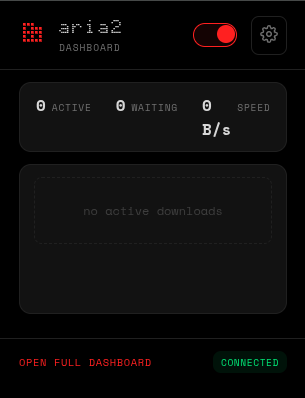
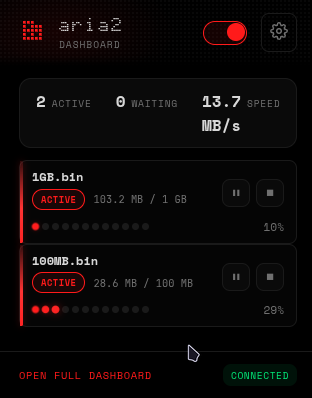
screenshot update

diff --git a/README.md b/README.md
@@ -6,7 +6,9 @@ A browser extension for managing aria2 downloads with a sleek dot-matrix aesthet
 
 ![Aria2 Dashboard Options](sc2.png)
 
-![Aria2 Dashboard Full](sc3.png)
+![Aria2 Dashboard Options2](sc3.png)
+
+![Aria2 Dashboard Full](sc4.png)
 
 ## Features
 